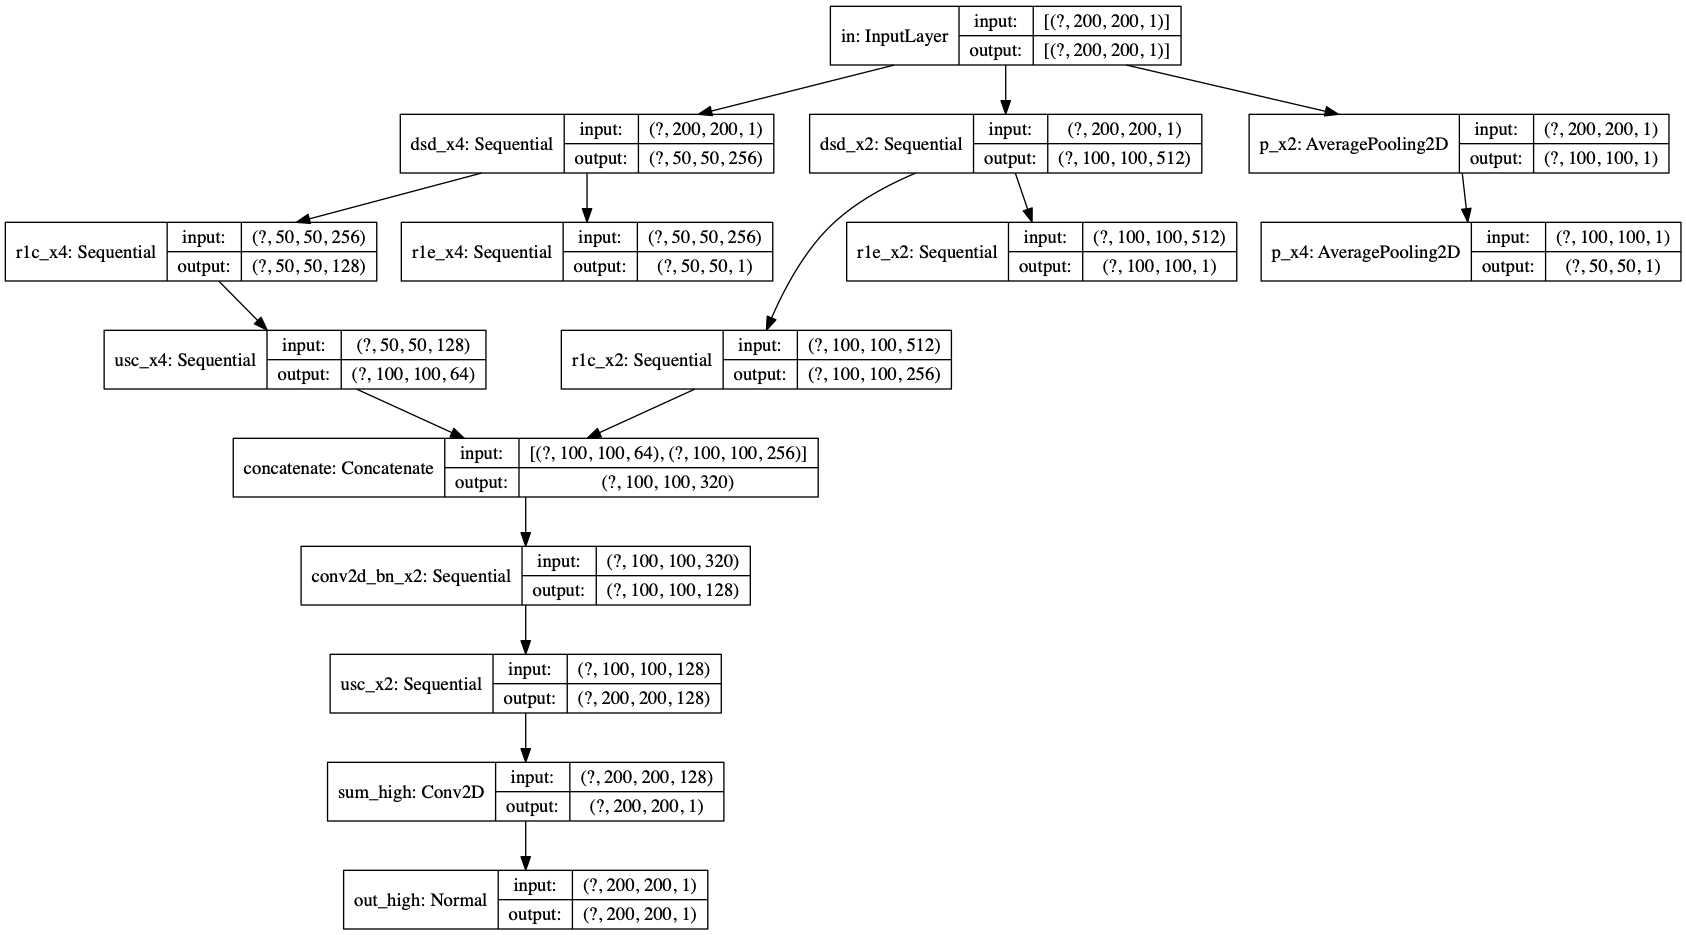
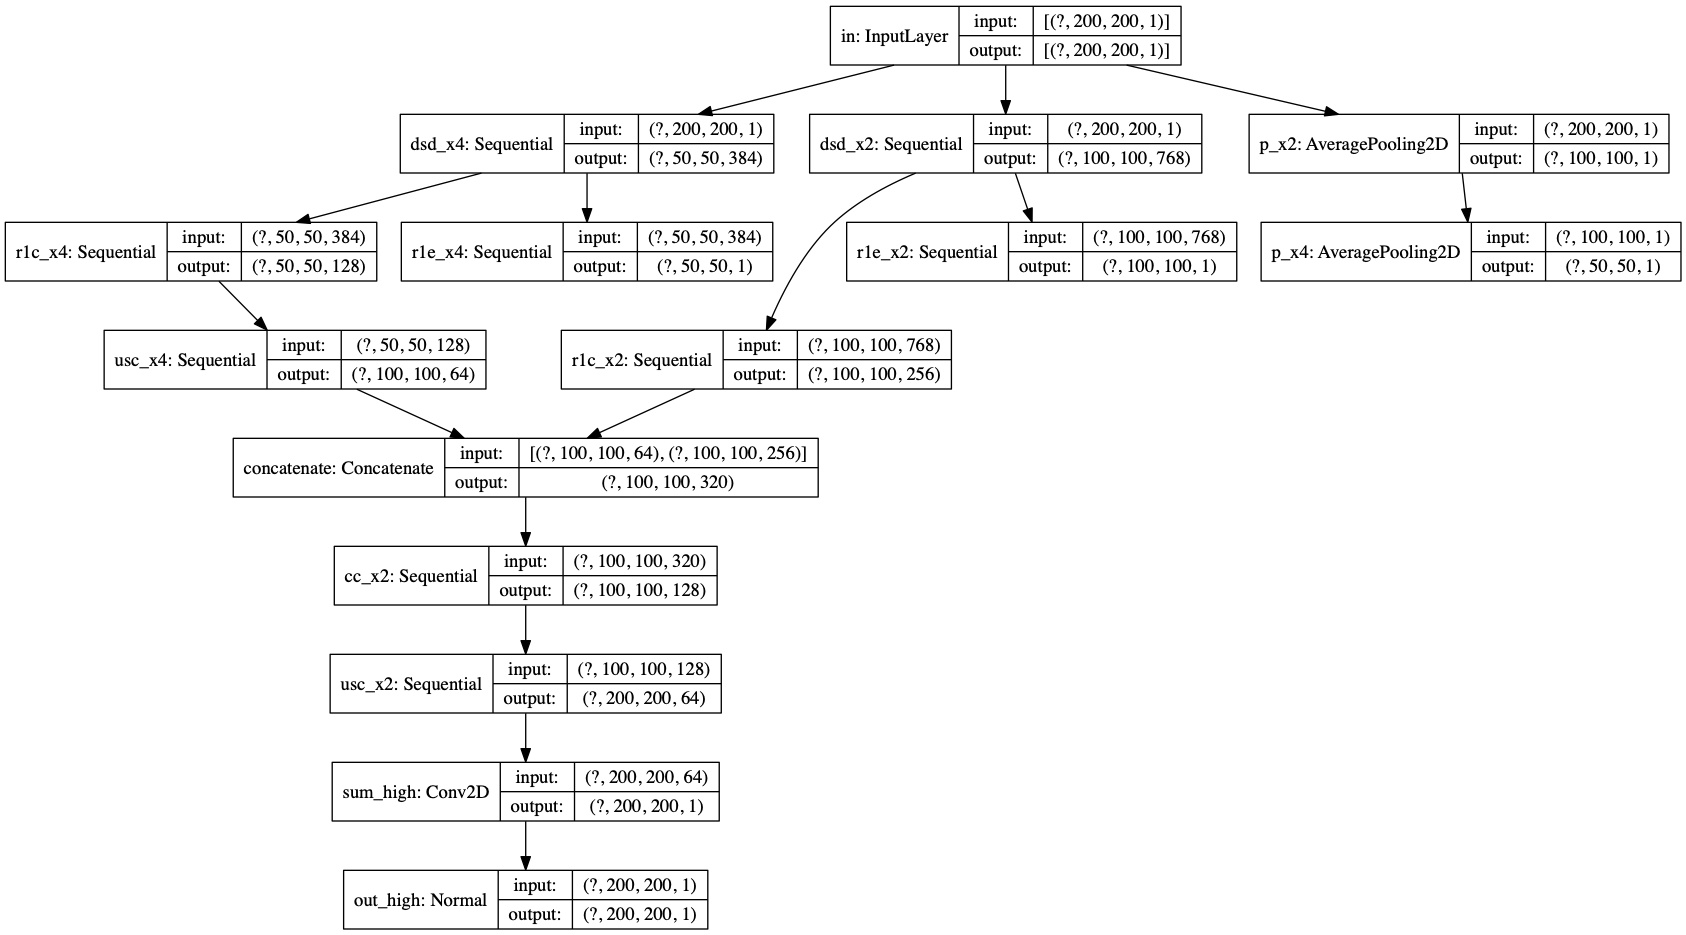
update model

diff --git a/model.py b/model.py
@@ -184,25 +184,25 @@ class Normal(tf.keras.layers.Layer):
         return config'''
 
 
-def block_downsample_decomposition(len_low_size, input_len_size, input_channels, downsample_ratio, filters_decompose, name=None):
+def block_downsample_decomposition(len_size, channels_decompose, input_len_size, input_channels, downsample_ratio, name=None):
     result = tf.keras.Sequential(name=name)
     result.add(tf.keras.layers.Input(
         shape=(input_len_size, input_len_size, input_channels)))
     result.add(Downpixel(downsample_ratio))
-    result.add(tf.keras.layers.Conv2D(filters_decompose, [1, len_low_size], strides=(1, 1), padding='valid', data_format="channels_last",
+    result.add(tf.keras.layers.Conv2D(channels_decompose, [1, len_size], strides=(1, 1), padding='valid', data_format="channels_last",
                                       activation='relu', use_bias=False,
                                       kernel_constraint=tf.keras.constraints.NonNeg(),
                                       kernel_initializer=tf.keras.initializers.RandomNormal(mean=0.01, stddev=0.1)))
     result.add(Weight_R1M())
-    result.add(Reconstruct_R1M(filters_decompose))
+    result.add(Reconstruct_R1M(channels_decompose))
     return result
 
 
-def block_rank1channels_convolution(filters, input_len_size, input_channels, name=None):
+def block_rank1channels_convolution(channels, input_len_size, input_channels, name=None):
     result = tf.keras.Sequential(name=name)
     result.add(tf.keras.layers.Input(
         shape=(input_len_size, input_len_size, input_channels)))
-    result.add(tf.keras.layers.Conv2D(filters, [1, 1], strides=1, padding='same', data_format="channels_last",
+    result.add(tf.keras.layers.Conv2D(channels, [1, 1], strides=1, padding='same', data_format="channels_last",
                                       activation='relu', use_bias=False,
                                       name=name))
     result.add(Weight_R1M())
@@ -210,11 +210,11 @@ def block_rank1channels_convolution(filters, input_len_size, input_channels, nam
     return result
 
 
-def block_upsample_convolution(filters, input_len_size, input_channels, upsample_ratio, name=None):
+def block_upsample_convolution(channels, input_len_size, input_channels, upsample_ratio, name=None):
     result = tf.keras.Sequential(name=name)
     result.add(tf.keras.layers.Input(
         shape=(input_len_size, input_len_size, input_channels)))
-    result.add(Subpixel(filters=int(filters), kernel_size=(3, 3), r=upsample_ratio,
+    result.add(Subpixel(filters=int(channels), kernel_size=(3, 3), r=upsample_ratio,
                         activation='relu', use_bias=False, padding='same',
                         kernel_initializer=tf.keras.initializers.RandomNormal(mean=0.01, stddev=0.1)))
     result.add(tf.keras.layers.BatchNormalization())
@@ -230,12 +230,15 @@ def block_rank1_estimation(dims, input_len_size, input_channels, name=None):
     result.add(Normal(dims))
     return result
 
-def block_convolution(filters, name=None):
+
+def block_channel_combination(channels, name=None):
     result = tf.keras.Sequential(name=name)
-    result.add(tf.keras.layers.Conv2D(filters, [3, 3], strides=1, padding='same', data_format="channels_last",
-                                    activation='relu', use_bias=False))
+    result.add(tf.keras.layers.Conv2D(channels, [1, 1], strides=1, padding='same', data_format="channels_last",
+                                      activation='relu', use_bias=False))
     result.add(tf.keras.layers.BatchNormalization())
+    result.add(Symmetry_R1M())
     return result
+
 
 def make_generator_model(len_high_size=128, scale=4):
 
@@ -249,54 +252,35 @@ def make_generator_model(len_high_size=128, scale=4):
         pool_size=(2, 2), strides=2, padding='valid', name='p_x2')(inp)
     low_x4 = tf.keras.layers.AveragePooling2D(
         pool_size=(2, 2), strides=2, padding='valid', name='p_x4')(low_x2)
-    '''low_x8 = tf.keras.layers.AveragePooling2D(
-        pool_size=(2, 2), strides=2, padding='valid', name='p_x8')(low_x4)'''
 
-    '''dsd_x8 = block_downsample_decomposition(len_low_size=len_low_size_x8, input_len_size=len_high_size,
-                                            input_channels=1, downsample_ratio=8, filters_decompose=128, name='dsd_x8')
-    rech_x8 = dsd_x8(inp)
-    r1c = block_rank1channels_convolution(
-        filters=32, input_len_size=len_low_size_x8, input_channels=128, name='r1c_x8')
-    sym_x8 = r1c(rech_x8)
-    r1e = block_rank1_estimation(
-        dims=len_low_size_x8, input_len_size=len_low_size_x8, input_channels=128, name='r1e_x8')
-    out_low_x8 = r1e(rech_x8)
-
-    usc_x8 = block_upsample_convolution(
-        filters=16, input_len_size=len_low_size_x8, input_channels=32, upsample_ratio=2, name='usc_x8')
-    sym_x8 = usc_x8(sym_x8)'''
-
-    dsd_x4 = block_downsample_decomposition(len_low_size=len_low_size_x4, input_len_size=len_high_size,
-                                            input_channels=1, downsample_ratio=4, filters_decompose=256, name='dsd_x4')
+    dsd_x4 = block_downsample_decomposition(len_size=len_low_size_x4, channels_decompose=384, input_len_size=len_high_size,
+                                            input_channels=1, downsample_ratio=4, name='dsd_x4')
     rech_x4 = dsd_x4(inp)
     r1c = block_rank1channels_convolution(
-        filters=128, input_len_size=len_low_size_x4, input_channels=256, name='r1c_x4')
+        channels=128, input_len_size=len_low_size_x4, input_channels=384, name='r1c_x4')
     sym_x4 = r1c(rech_x4)
     r1e = block_rank1_estimation(
-        dims=len_low_size_x4, input_len_size=len_low_size_x4, input_channels=256, name='r1e_x4')
+        dims=len_low_size_x4, input_len_size=len_low_size_x4, input_channels=384, name='r1e_x4')
     out_low_x4 = r1e(rech_x4)
 
-    '''concat = tf.keras.layers.concatenate([sym_x8, sym_x4], axis=-1)'''
-
     usc_x4 = block_upsample_convolution(
-        filters=64, input_len_size=len_low_size_x4, input_channels=128, upsample_ratio=2, name='usc_x4')
-    #sym_x4 = usc_x4(concat)
+        channels=64, input_len_size=len_low_size_x4, input_channels=128, upsample_ratio=2, name='usc_x4')
     sym_x4 = usc_x4(sym_x4)
 
-    dsd_x2 = block_downsample_decomposition(len_low_size=len_low_size_x2, input_len_size=len_high_size,
-                                            input_channels=1, downsample_ratio=2, filters_decompose=512, name='dsd_x2')
+    dsd_x2 = block_downsample_decomposition(len_size=len_low_size_x2, channels_decompose=768, input_len_size=len_high_size,
+                                            input_channels=1, downsample_ratio=2, name='dsd_x2')
     rech_x2 = dsd_x2(inp)
     r1c_x2 = block_rank1channels_convolution(
-        filters=256, input_len_size=len_low_size_x2, input_channels=512, name='r1c_x2')
+        channels=256, input_len_size=len_low_size_x2, input_channels=768, name='r1c_x2')
     sym_x2 = r1c_x2(rech_x2)
     r1e_x2 = block_rank1_estimation(
-        dims=len_low_size_x2, input_len_size=len_low_size_x2, input_channels=512, name='r1e_x2')
+        dims=len_low_size_x2, input_len_size=len_low_size_x2, input_channels=768, name='r1e_x2')
     out_low_x2 = r1e_x2(rech_x2)
 
     concat = tf.keras.layers.concatenate([sym_x4, sym_x2], axis=-1)
-    concat = block_convolution(filters=128, name='conv2d_bn_x2')(concat)
+    concat = block_channel_combination(channels=128, name='cc_x2')(concat)
     usc_x2 = block_upsample_convolution(
-        filters=128, input_len_size=len_low_size_x2, input_channels=128, upsample_ratio=2, name='usc_x2')
+        channels=64, input_len_size=len_low_size_x2, input_channels=128, upsample_ratio=2, name='usc_x2')
     sym = usc_x2(concat)
 
     Sumh = tf.keras.layers.Conv2D(filters=1, kernel_size=(1, 1),
@@ -306,30 +290,28 @@ def make_generator_model(len_high_size=128, scale=4):
                                   activation='relu', use_bias=False, name='sum_high')(sym)
     high_out = Normal(int(len_high_size), name='out_high')(Sumh)
 
-    '''model = tf.keras.models.Model(
-        inputs=[inp], outputs=[out_low_x2, out_low_x4, out_low_x8, high_out, low_x2, low_x4, low_x8])'''
     model = tf.keras.models.Model(
         inputs=[inp], outputs=[out_low_x2, out_low_x4, high_out, low_x2, low_x4])
     return model
 
 
-def block_rank1_decompose_reconstruct(len_size, filters_decompose, input_len_size, input_channels, name=None):
+def block_rank1_decompose_reconstruct(len_size, channels_decompose, input_len_size, input_channels, name=None):
     result = tf.keras.Sequential(name=name)
     result.add(tf.keras.layers.Input(
         shape=(input_len_size, input_len_size, input_channels)))
-    result.add(tf.keras.layers.Conv2D(filters_decompose, [1, len_size], strides=(1, 1), padding='valid', data_format="channels_last",
+    result.add(tf.keras.layers.Conv2D(channels_decompose, [1, len_size], strides=(1, 1), padding='valid', data_format="channels_last",
                                       activation='relu', use_bias=False,
                                       kernel_constraint=tf.keras.constraints.NonNeg(),
                                       kernel_initializer=tf.keras.initializers.RandomNormal(mean=0.01, stddev=0.1)))
-    result.add(Reconstruct_R1M(filters_decompose))
+    result.add(Reconstruct_R1M(channels_decompose))
     return result
 
 
-def block_down_convolution(filters, input_len_size, input_channels, name=None):
+def block_down_convolution(channels, input_len_size, input_channels, name=None):
     result = tf.keras.Sequential(name=name)
     result.add(tf.keras.layers.Input(
         shape=(input_len_size, input_len_size, input_channels)))
-    result.add(tf.keras.layers.Conv2D(filters, kernel_size=(3, 3), strides=(1, 1), padding='same', data_format="channels_last",
+    result.add(tf.keras.layers.Conv2D(channels, kernel_size=(3, 3), strides=(1, 1), padding='same', data_format="channels_last",
                                       activation=None, use_bias=False,
                                       kernel_initializer=tf.keras.initializers.RandomNormal(mean=0.01, stddev=0.1)))
     result.add(tf.keras.layers.LeakyReLU(0.2))
@@ -352,52 +334,52 @@ def make_discriminator_model(len_high_size=128, scale=4):
         shape=(len_high_size, len_high_size, 1), name='in', dtype=tf.float32)
 
     b_r1dr = block_rank1_decompose_reconstruct(
-        len_size=len_x1, filters_decompose=512, input_len_size=len_x1, input_channels=1, name='r1dr_x1')
+        len_size=len_x1, channels_decompose=512, input_len_size=len_x1, input_channels=1, name='r1dr_x1')
     r1dr_x1 = b_r1dr(inp)
     b_dc = block_down_convolution(
-        filters=80, input_len_size=len_x1, input_channels=512, name='dc_x1')
+        channels=80, input_len_size=len_x1, input_channels=512, name='dc_x1')
     dc_x1 = b_dc(r1dr_x1)
 
     ratio = 2
     dp_x2 = Downpixel(r=ratio, name='dp_x2')(inp)
     b_r1dr = block_rank1_decompose_reconstruct(
-        len_size=len_x2, filters_decompose=512, input_len_size=len_x2, input_channels=ratio**2, name='r1dr_x2')
+        len_size=len_x2, channels_decompose=512, input_len_size=len_x2, input_channels=ratio**2, name='r1dr_x2')
     r1dr_x2 = b_r1dr(dp_x2)
     b_r1c = block_rank1channels_convolution(
-        filters=40, input_len_size=len_x2, input_channels=512, name='r1c_x2')
+        channels=40, input_len_size=len_x2, input_channels=512, name='r1c_x2')
     r1c_x2 = b_r1c(r1dr_x2)
 
     concat_x1_x2 = tf.keras.layers.Concatenate()([r1c_x2, dc_x1])
     b_dc = block_down_convolution(
-        filters=120, input_len_size=len_x2, input_channels=120, name='dc_x2')
+        channels=120, input_len_size=len_x2, input_channels=120, name='dc_x2')
     dc_x2 = b_dc(concat_x1_x2)
 
     ratio = 4
     dp_x4 = Downpixel(r=ratio, name='dp_x4')(inp)
     b_r1dr = block_rank1_decompose_reconstruct(
-        len_size=len_x4, filters_decompose=256, input_len_size=len_x4, input_channels=ratio**2, name='r1dr_x4')
+        len_size=len_x4, channels_decompose=256, input_len_size=len_x4, input_channels=ratio**2, name='r1dr_x4')
     r1dr_x4 = b_r1dr(dp_x4)
     b_r1c = block_rank1channels_convolution(
-        filters=20, input_len_size=len_x4, input_channels=256, name='r1c_x4')
+        channels=20, input_len_size=len_x4, input_channels=256, name='r1c_x4')
     r1c_x4 = b_r1c(r1dr_x4)
 
     concat_x2_x4 = tf.keras.layers.Concatenate()([r1c_x4, dc_x2])
     b_dc = block_down_convolution(
-        filters=60, input_len_size=len_x4, input_channels=140, name='dc_x4')
+        channels=60, input_len_size=len_x4, input_channels=140, name='dc_x4')
     dc_x4 = b_dc(concat_x2_x4)
 
     ratio = 8
     dp_x8 = Downpixel(r=ratio, name='dp_x8')(inp)
     b_r1dr = block_rank1_decompose_reconstruct(
-        len_size=len_x8, filters_decompose=128, input_len_size=len_x8, input_channels=ratio**2, name='r1dr_x8')
+        len_size=len_x8, channels_decompose=128, input_len_size=len_x8, input_channels=ratio**2, name='r1dr_x8')
     r1dr_x8 = b_r1dr(dp_x8)
     b_r1c = block_rank1channels_convolution(
-        filters=10, input_len_size=len_x8, input_channels=128, name='r1c_x8')
+        channels=10, input_len_size=len_x8, input_channels=128, name='r1c_x8')
     r1c_x8 = b_r1c(r1dr_x8)
 
     concat_x4_x8 = tf.keras.layers.Concatenate()([r1c_x8, dc_x4])
     b_dc = block_down_convolution(
-        filters=80, input_len_size=len_x8, input_channels=70, name='dc_x8')
+        channels=80, input_len_size=len_x8, input_channels=70, name='dc_x8')
     dc_x8 = b_dc(concat_x4_x8)
 
     conv = tf.keras.layers.Conv2D(filters=80, kernel_size=(
@@ -456,14 +438,6 @@ def _train_step_generator(Gen, Dis, imgl, imgr, loss_filter, loss_weights, opts,
         fake_hic_l_x4 = tf.multiply(fake_hic_l_x4, mfilter_low)
         imgl_x4_filter = tf.multiply(imgl_x4, mfilter_low)
 
-        '''fake_hic_l_x8 = fake_hic[2]
-        imgl_x8 = fake_hic[6]
-        mfilter_low = tf.expand_dims(loss_filter[2], axis=0)
-        mfilter_low = tf.expand_dims(mfilter_low, axis=-1)
-        mfilter_low = tf.cast(mfilter_low, tf.float32)
-        fake_hic_l_x8 = tf.multiply(fake_hic_l_x8, mfilter_low)
-        imgl_x8_filter = tf.multiply(imgl_x8, mfilter_low)'''
-
         gen_loss_low_ssim_x2 = generator_ssim_loss(
             fake_hic_l_x2, imgl_x2_filter)
         gen_loss_low_mse_x2 = generator_mse_loss(fake_hic_l_x2, imgl_x2_filter)
@@ -472,21 +446,12 @@ def _train_step_generator(Gen, Dis, imgl, imgr, loss_filter, loss_weights, opts,
             fake_hic_l_x4, imgl_x4_filter)
         gen_loss_low_mse_x4 = generator_mse_loss(fake_hic_l_x4, imgl_x4_filter)
 
-        '''gen_loss_low_ssim_x8 = generator_ssim_loss(
-            fake_hic_l_x8, imgl_x8_filter)
-        gen_loss_low_mse_x8 = generator_mse_loss(fake_hic_l_x8, imgl_x8_filter)'''
-
-        '''gen_loss_low_ssim = (gen_loss_low_ssim_x8*1.0 +
-                             gen_loss_low_ssim_x4*4.0 + gen_loss_low_ssim_x2*16.0)/21.0
-        gen_loss_low_mse = (gen_loss_low_mse_x8*1.0 +
-                            gen_loss_low_mse_x4*4.0 + gen_loss_low_mse_x2*16.0)/21.0'''
         gen_loss_low_ssim = (gen_loss_low_ssim_x4*4.0 +
                              gen_loss_low_ssim_x2*16.0)/20.0
         gen_loss_low_mse = (gen_loss_low_mse_x4*4.0 +
                             gen_loss_low_mse_x2*16.0)/20.0
         gen_loss_low = gen_loss_low_ssim + gen_loss_low_mse
 
-        '''fake_hic_h = fake_hic[3]'''
         fake_hic_h = fake_hic[2]
         mfilter_high = tf.expand_dims(loss_filter[3], axis=0)
         mfilter_high = tf.expand_dims(mfilter_high, axis=-1)
@@ -509,8 +474,6 @@ def _train_step_generator(Gen, Dis, imgl, imgr, loss_filter, loss_weights, opts,
     gen_low_v += Gen.get_layer('r1e_x2').trainable_variables
     gen_low_v += Gen.get_layer('dsd_x4').trainable_variables
     gen_low_v += Gen.get_layer('r1e_x4').trainable_variables
-    '''gen_low_v += Gen.get_layer('dsd_x8').trainable_variables
-    gen_low_v += Gen.get_layer('r1e_x8').trainable_variables'''
     gradients_of_generator_low = x.gradient(gen_loss_low, gen_low_v)
     opts[0].apply_gradients(zip(gradients_of_generator_low, gen_low_v))
     train_logs[0](gen_loss_low_ssim)
@@ -521,7 +484,7 @@ def _train_step_generator(Gen, Dis, imgl, imgr, loss_filter, loss_weights, opts,
     gen_high_v += Gen.get_layer('usc_x2').trainable_variables
     gen_high_v += Gen.get_layer('r1c_x4').trainable_variables
     gen_high_v += Gen.get_layer('usc_x4').trainable_variables
-    gen_high_v += Gen.get_layer('conv2d_bn_x2').trainable_variables
+    gen_high_v += Gen.get_layer('cc_x2').trainable_variables
     gen_high_v += Gen.get_layer('sum_high').trainable_variables
     gen_high_v += Gen.get_layer('out_high').trainable_variables
     gradients_of_generator_high = gen_tape_high.gradient(
@@ -591,7 +554,7 @@ def train(gen, dis, dataset, epochs, len_high_size, scale, test_dataset=None):
     test_log_dir = 'logs/model/' + current_time + '/test'
     test_writer = tf.summary.create_file_writer(test_log_dir)
 
-    '''train_log_dir = 'logs/model/' + current_time + '/model'
+    train_log_dir = 'logs/model/' + current_time + '/model'
     writer = tf.summary.create_file_writer(train_log_dir)
     tf.summary.trace_on(graph=True, profiler=False)
     # Forward pass
@@ -604,7 +567,7 @@ def train(gen, dis, dataset, epochs, len_high_size, scale, test_dataset=None):
     tracegraph(tf.zeros((1, len_high_size, len_high_size, 1)), dis)
     with writer.as_default():
         tf.summary.trace_export(name="model_dis_trace",
-                                step=0, profiler_outdir=train_log_dir)'''
+                                step=0, profiler_outdir=train_log_dir)
 
     with test_writer.as_default():
         [_, (test_input_low, test_input_high)] = next(
@@ -707,11 +670,7 @@ def train(gen, dis, dataset, epochs, len_high_size, scale, test_dataset=None):
                 fig = plot_matrix(m)
                 image = plot_to_image(fig)
                 tf.summary.image(name='gen_low_x4', data=image, step=epoch)
-                '''mpy = dpl_x8.numpy()
-                m = np.log1p(1000*np.squeeze(mpy[:, :, :, 0]))
-                fig = plot_matrix(m)
-                image = plot_to_image(fig)
-                tf.summary.image(name='gen_low_x8', data=image, step=epoch)'''
+
                 mpy = dph.numpy()
                 m = np.log1p(1000*np.squeeze(mpy[:, :, :, 0]))
                 fig = plot_matrix(m)

diff --git a/train.py b/train.py
@@ -54,7 +54,7 @@ if __name__ == '__main__':
     scale = 4
     # genomic_disstance is used for input path, nothing to do with model
     genomic_distance = int(sys.argv[2])  # 2000000, 2560000
-    EPOCHS = 2000
+    EPOCHS = 1200
     BATCH_SIZE = 9
     data_path = './data'
     raw_path = 'raw'
@@ -65,7 +65,7 @@ if __name__ == '__main__':
     output_path = 'output'
     output_file = input_file
     #'1' '2' '3' '4' '5' '6' '7' '8' '9' '10' '11' '12' '13' '14' '15' '16' '17' '18' '19' '20' '21' '22' 'X'
-    chromosome_list = ['1', '2', '3', '4', '5','6', '7', '8', '9', '10', '11', '12', '13', '14', '15']
+    chromosome_list = ['6']#['1', '2', '3', '4', '5','6', '7', '8', '9', '10', '11', '12', '13', '14', '15']
     hr_file_list = []
 
     for chri in chromosome_list:
